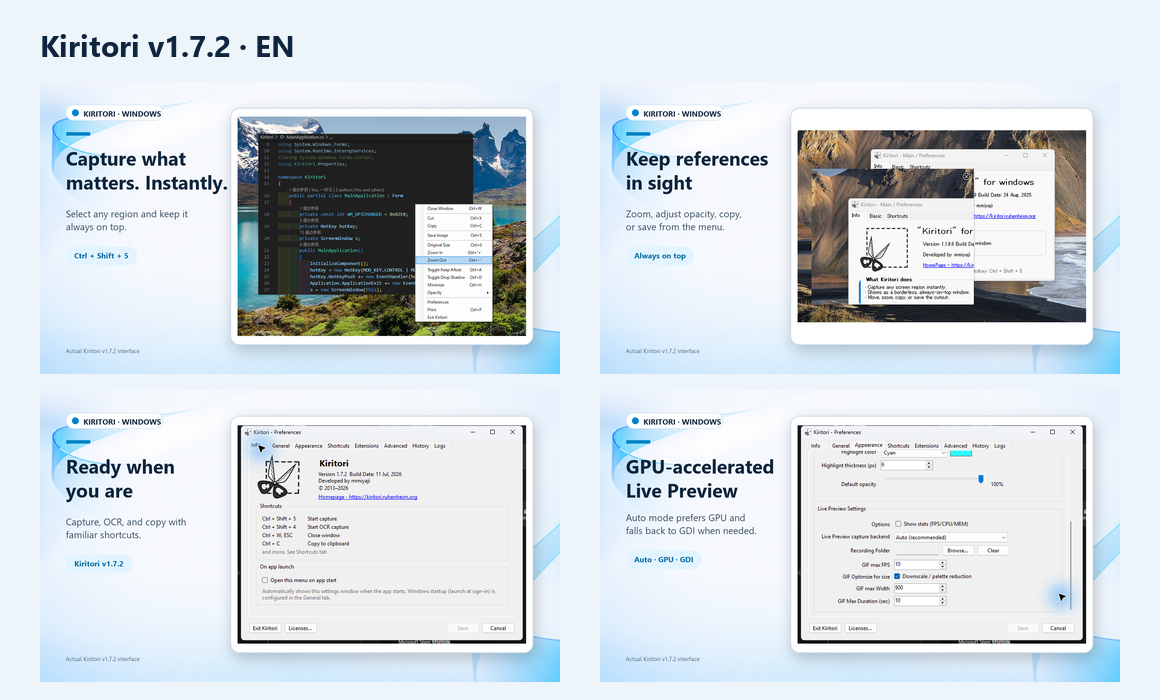
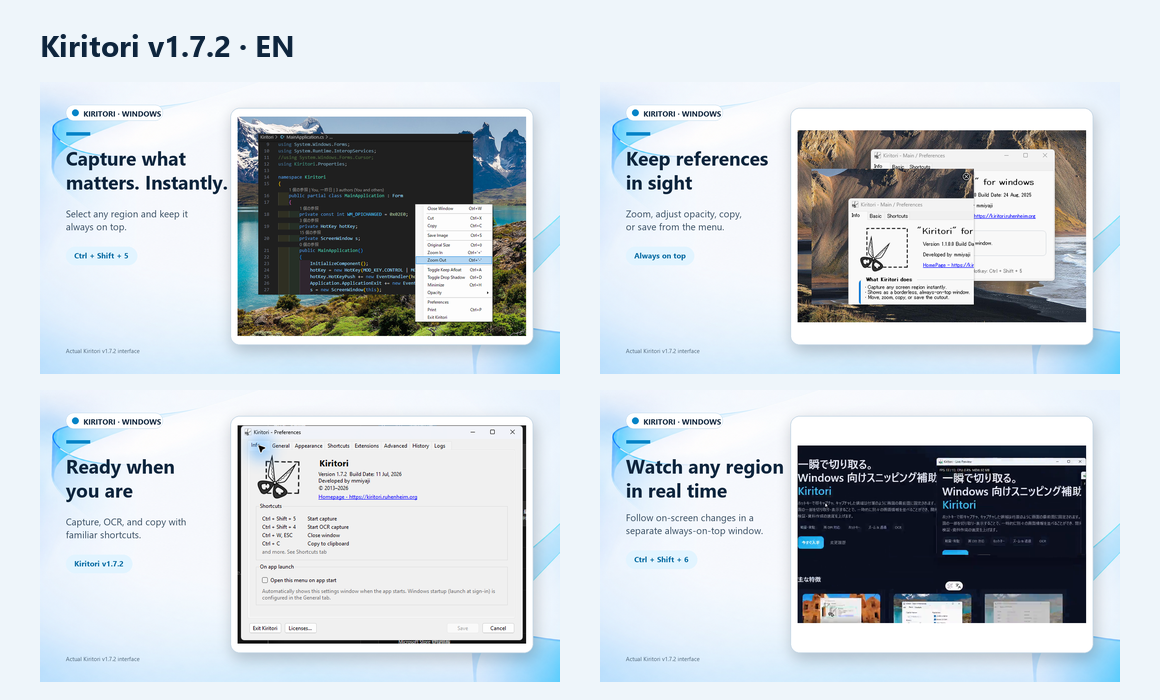
chore: explain Live Preview in Store screenshots

Changed region(s): [[0.5276, 0.6, 0.9621, 0.93]]

diff --git a/tools/build_store_assets.py b/tools/build_store_assets.py
@@ -38,11 +38,11 @@ SLIDES = {
             "source": SOURCE / "info-ja.png",
         },
         {
-            "file": "04-live-preview-gpu.png",
-            "title": "GPU対応\nライブプレビュー",
-            "subtitle": "自動選択で滑らかに。\n未対応時はGDIへ。",
-            "chip": "Auto · GPU · GDI",
-            "source": SOURCE / "prefs-ja.png",
+            "file": "04-live-preview.png",
+            "title": "選んだ範囲を\nリアルタイム表示",
+            "subtitle": "画面の変化を、そのまま\n別ウィンドウで追跡。",
+            "chip": "Ctrl + Shift + 6",
+            "source": SOURCE / "live-preview.png",
         },
     ],
     "en": [
@@ -68,11 +68,11 @@ SLIDES = {
             "source": SOURCE / "info-en.png",
         },
         {
-            "file": "04-live-preview-gpu.png",
-            "title": "GPU-accelerated\nLive Preview",
-            "subtitle": "Auto mode prefers GPU and\nfalls back to GDI when needed.",
-            "chip": "Auto · GPU · GDI",
-            "source": SOURCE / "prefs-en.png",
+            "file": "04-live-preview.png",
+            "title": "Watch any region\nin real time",
+            "subtitle": "Follow on-screen changes in a\nseparate always-on-top window.",
+            "chip": "Ctrl + Shift + 6",
+            "source": SOURCE / "live-preview.png",
         },
     ],
 }
@@ -174,6 +174,9 @@ def main() -> None:
     for locale, slides in SLIDES.items():
         locale_dir = OUT / locale
         locale_dir.mkdir(parents=True, exist_ok=True)
+        stale_gpu_slide = locale_dir / "04-live-preview-gpu.png"
+        if stale_gpu_slide.exists():
+            stale_gpu_slide.unlink()
         for spec in slides:
             destination = locale_dir / spec["file"]
             draw_slide(locale, spec).save(destination, optimize=True)

diff --git a/store-assets/v1.7.2/README.md b/store-assets/v1.7.2/README.md
@@ -18,13 +18,13 @@ Reference: [Microsoft Store — App screenshots, images, and trailers for MSIX a
 1. `01-capture.png` — 必要な場所だけを切り取り、画面の最前面に固定できます。
 2. `02-pin-and-control.png` — 拡大、透過、コピー、保存などを右クリックメニューから操作できます。
 3. `03-shortcuts.png` — キャプチャ、OCR、コピーを使い慣れたショートカットですばやく実行できます。
-4. `04-live-preview-gpu.png` — GPU 対応ライブプレビュー。Auto モードは必要に応じて GDI に切り替わります。
+4. `04-live-preview.png` — 選択した範囲をリアルタイムに追跡し、別ウィンドウへ表示できます。
 
 ## English captions
 
 1. `01-capture.png` — Capture any region and keep it always on top.
 2. `02-pin-and-control.png` — Zoom, adjust opacity, copy, or save from the context menu.
 3. `03-shortcuts.png` — Capture, OCR, and copy with familiar keyboard shortcuts.
-4. `04-live-preview-gpu.png` — GPU-accelerated Live Preview with automatic GDI fallback when needed.
+4. `04-live-preview.png` — Follow changes in any selected region in a separate always-on-top window.
 
 Each caption is under the Microsoft Store 200-character limit.
